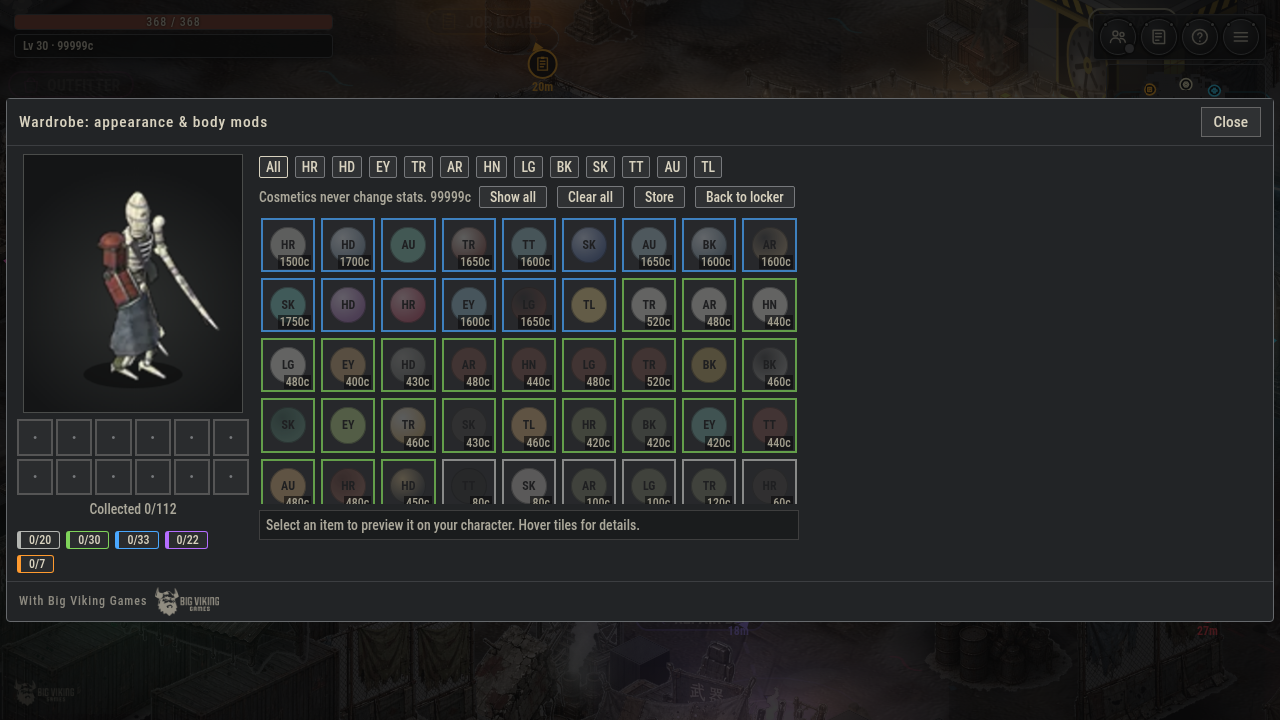
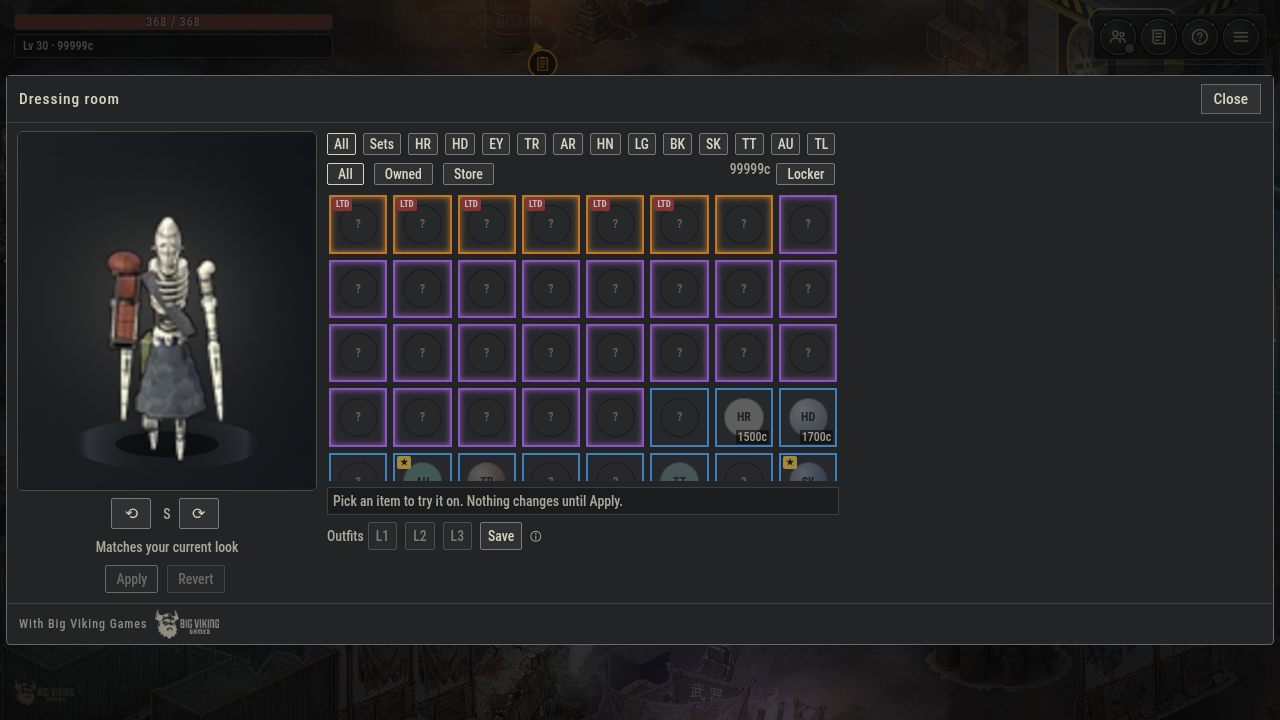
Dressing room: preview-only try-on (Apply/Revert/diff), rotatable 8-direction model with smooth snap + lighting, owned/store filters, badges, sets with combined price, in-place sim-store Buy, saved outfits, dr_* analytics; tests/dressing_room.mjs (+shots); appearance/store tests updated

diff --git a/src/wardrobeui.ts b/src/wardrobeui.ts
@@ -1,49 +1,119 @@
-// Wardrobe modal (opened from the locker): icon grid, slot tabs, hover details, live preview on the character. Cosmetic only; no stats.
+// Dressing room (the Wardrobe modal, opened from the locker / Store). Selecting an item only PREVIEWS it on a large rotatable model;
+// nothing changes on your character until Apply. Store skins can be tried on and bought in place through the simulated store
+// (src/store.ts startPurchase -> confirmPurchase). Saved outfits, sets with a combined price, analytics hooks. See docs/DRESSING_ROOM.md.
 import { RARITIES, RARITY_COLOR, Rarity } from './config';
-import { COSMETICS, COS_BY_ID, COS_SLOTS, COS_SLOT_ICON, COS_SLOT_LABEL, COS_THEME_LABEL, CosDef, CosSlot, buyCos, checkAchievements, cosOf, equipCos, equippedCos, ownsCos, ACHIEVEMENTS } from './content/appearance';
+import { COSMETICS, COS_BY_ID, COS_SLOTS, COS_SLOT_ICON, COS_SLOT_LABEL, COS_THEME_LABEL, CosDef, CosSlot, buyCos, checkAchievements, cosOf, equipCos, ownsCos, ACHIEVEMENTS } from './content/appearance';
 import { applyCosmeticVariants, bodyOf } from './bodyvariants';
 import { drawCosmetics, drawTrail } from './cosmetics';
+import { PlayerAnimator, Dir8, DIR_ORDER, dirFromWorld } from './sprites';
 import { persist } from './state';
-import { track } from './analytics';
+import { track, fmtUsd } from './analytics';
+import { CATALOG, SKU_BY_ID, Sku, activeOrder, cancelOrder, confirmPurchase, skuAvail, startPurchase } from './store';
 type UIx = any;
+type Look = Partial<Record<CosSlot, string>>;
 const esc = (s: string) => String(s).replace(/[&<>"]/g, c => ({ '&': '&amp;', '<': '&lt;', '>': '&gt;', '"': '&quot;' }[c]!));
-export const WD = { tab: 'all' as 'all' | CosSlot, sel: '', show: 'owned' as 'owned' | 'all', msg: '' };
 const rc = (r: Rarity) => RARITY_COLOR[r];
+
+/** Dressing-room state. `staged` holds preview overrides per slot (id = try on, null = take off); empty = preview equals what you wear. */
+export const WD = {
+  tab: 'all' as 'all' | 'sets' | CosSlot, show: 'all' as 'owned' | 'all' | 'store', sel: '', msg: '',
+  staged: {} as Partial<Record<CosSlot, string | null>>, set: '' as string,
+  dir: 0 as Dir8, dirF: 0, phase: 'idle' as 'idle' | 'confirm' | 'processing', orderId: '', buySku: '',
+};
+export const OUTFIT_SLOTS = 3;
+export const NEW_DAYS = 7;
+/** Store spotlight: featured premium pieces (bundle contents) get a star badge. */
+const FEATURED = new Set(CATALOG.filter(k => k.kind === 'bundle').flatMap(k => k.items || []));
+
 const SRC_HINT = (d: CosDef): string => { const s = d.src; switch (s.k) {
-  case 'vendor': return 'Sold at the wardrobe counter for ' + s.price + 'c';
+  case 'vendor': return 'Sold here for ' + s.price + 'c';
   case 'drop': return 'Drops from kills (rare from mobs, better from elites and bosses)';
   case 'elite': return 'Drops from elites and bosses';
   case 'boss': return 'Drops from any boss';
   case 'bossId': return 'Drops from one specific boss';
   case 'ach': return 'Achievement: ' + (ACHIEVEMENTS.find(a => a.key === s.key)?.label || s.key);
-  case 'premium': return 'Outfitter skin: preview it here, buy in the Store (simulated, $' + (s.cents / 100).toFixed(2) + ')';
-  case 'event': return 'Extremely rare: a tiny chance on any boss kill'; } };
-/** Discovery: owned, sold by the vendor, or equipped is "known"; everything else shows only slot/rarity/source until found. */
+  case 'premium': return 'Store skin: try it on, then Buy ' + fmtUsd(s.cents) + ' (SIMULATED)';
+  case 'event': return 'Limited: a tiny chance on any boss kill'; } };
+/** Discovery: owned, sold by the vendor, or a store skin is "known"; everything else shows only slot/rarity/source until found. */
 export const isKnown = (s: any, d: CosDef) => ownsCos(s, d.id) || d.src.k === 'vendor' || d.src.k === 'premium';
-const tipOf = (s: any, d: CosDef) => { const known = isKnown(s, d); return `<b style="color:${rc(d.rarity)}">${known ? esc(d.name) : '???'}</b><br>${esc(COS_SLOT_LABEL[d.slot])} · ${d.rarity}${known ? ' · ' + esc(COS_THEME_LABEL[d.theme]) : ''}<br>` + (known ? `${esc(d.desc)}<br><span class="mut">${esc(d.lore)}</span><br>` : '') + `<span class="mut">${ownsCos(s, d.id) ? 'Owned' : esc(SRC_HINT(d))}</span>`; };
+const isStore = (d: CosDef) => d.src.k === 'premium' || d.src.k === 'vendor';
+const isNew = (s: any, d: CosDef) => { const c = cosOf(s), t = c.owned[d.id]; return !!t && t > 1 && Date.now() - t < NEW_DAYS * 864e5 && !(c.seen![d.id] >= t); };
+const badgeOf = (s: any, d: CosDef): [string, string, string] | null => !ownsCos(s, d.id) && d.src.k === 'event' ? ['ltd', 'LTD', 'Limited'] : isNew(s, d) ? ['new', 'NEW', 'New: not previewed yet'] : !ownsCos(s, d.id) && FEATURED.has(d.id) ? ['feat', '★', 'Featured in a set'] : null;
+const priceOf = (d: CosDef) => d.src.k === 'premium' ? fmtUsd(d.src.cents) : d.src.k === 'vendor' ? d.src.price + 'c' : '';
+const tipOf = (s: any, d: CosDef) => { const known = isKnown(s, d), own = ownsCos(s, d.id); return `<b style="color:${rc(d.rarity)}">${known ? esc(d.name) : '???'}</b><br>${esc(COS_SLOT_LABEL[d.slot])} · ${d.rarity}${known ? ' · ' + esc(COS_THEME_LABEL[d.theme]) : ''}<br>` + (known ? `${esc(d.desc)}<br><span class="mut">${esc(d.lore)}</span><br>` : '') + `<span class="mut">${own ? 'Owned' : esc(SRC_HINT(d))}</span><br><i>Click: try on (preview only)</i>`; };
 const swatch = (d: CosDef, known: boolean) => known ? `<span class="cosw" style="--c:${d.c};--c2:${d.c2 || d.c}">${COS_SLOT_ICON[d.slot]}</span>` : `<span class="cosw unk">?</span>`;
 
+/** What you currently wear (owned + equipped only). */
+export function wornLook(s: any): Look { const c = cosOf(s), o: Look = {}; for (const sl of COS_SLOTS) { const id = c.equipped[sl]; if (id && c.owned[id] && COS_BY_ID[id]?.slot === sl) o[sl] = id; } return o; }
+/** The previewed look: worn + staged overrides. */
+export function previewLook(s: any): Look { const o = wornLook(s); for (const [sl, id] of Object.entries(WD.staged) as [CosSlot, string | null][]) { if (id) o[sl] = id; else delete o[sl]; } return o; }
+/** Slots where the preview differs from what you wear. */
+export function lookDiff(s: any): { slot: CosSlot; from?: string; to?: string }[] { const a = wornLook(s), b = previewLook(s); return COS_SLOTS.filter(sl => a[sl] !== b[sl]).map(sl => ({ slot: sl, from: a[sl], to: b[sl] })); }
+const unownedInPreview = (s: any) => Object.values(previewLook(s)).filter(id => id && !ownsCos(s, id)) as string[];
+
+/** Stage one item (try on). Re-staging what you already wear clears the override. */
+export function stageItem(s: any, id: string) { const d = COS_BY_ID[id]; if (!d) return; WD.sel = id; WD.set = ''; if (wornLook(s)[d.slot] === id) delete WD.staged[d.slot]; else WD.staged[d.slot] = id;
+  const c = cosOf(s); if (c.owned[id]) c.seen![id] = Date.now(); track('dr_preview', isStore(d) && !ownsCos(s, id) ? (d.src.k === 'premium' ? 'skin_' + id : undefined) : undefined, { id, slot: d.slot, owned: ownsCos(s, id), rarity: d.rarity, src: d.src.k });
+  if (!ownsCos(s, id)) track('wardrobe_locked_item_click', id, { src: d.src.k, rarity: d.rarity }); }
+/** Stage a store set (bundle) for preview. */
+export function stageSet(s: any, skuId: string) { const k = SKU_BY_ID[skuId]; if (!k?.items) return; for (const id of k.items) { const d = COS_BY_ID[id]; WD.staged[d.slot] = id; } WD.set = skuId; WD.sel = k.items[0]; track('dr_preview', skuId, { set: true, n: k.items.length }); }
+/** Revert: drop every preview override. Nothing on the character changed, so nothing else to undo. */
+export function revert(s: any) { const n = lookDiff(s).length; WD.staged = {}; WD.set = ''; WD.msg = n ? 'Reverted to your current look.' : ''; if (n) track('dr_revert', undefined, { n }); }
+/** Apply: commit owned staged pieces to the character. Unowned pieces stay staged as previews. */
+export function applyLook(s: any): { applied: number; needBuy: number } { let applied = 0, needBuy = 0;
+  for (const [sl, id] of Object.entries(WD.staged) as [CosSlot, string | null][]) { if (id === null) { equipCos(s, null, sl); delete WD.staged[sl]; applied++; } else if (ownsCos(s, id)) { equipCos(s, id); delete WD.staged[sl]; applied++; } else needBuy++; }
+  if (applied) { persist(s); track('dr_apply', undefined, { applied, needBuy }); } if (!needBuy) WD.set = ''; return { applied, needBuy }; }
+/** Rotate the model by `step` notches (45 degrees each). */
+export function rotate(step: number, via = 'button') { WD.dir = (((WD.dir + step) % 8) + 8) % 8 as Dir8; track('dr_rotate', undefined, { dir: DIR_ORDER[WD.dir], via }); }
+/** What the Buy button buys: the staged set if one is staged, else the selected unowned store piece. */
+export function buyTarget(s: any): { kind: 'sku'; sku: Sku } | { kind: 'credits'; d: CosDef } | null {
+  if (WD.set && skuAvail(s, WD.set).ok) return { kind: 'sku', sku: SKU_BY_ID[WD.set] };
+  const d = WD.sel ? COS_BY_ID[WD.sel] : null; if (!d || ownsCos(s, d.id)) return null;
+  if (d.src.k === 'premium') { const k = SKU_BY_ID['skin_' + d.id]; return k && skuAvail(s, k.id).ok ? { kind: 'sku', sku: k } : null; }
+  if (d.src.k === 'vendor') return { kind: 'credits', d }; return null; }
+export function saveOutfit(s: any, i: number): boolean { const c = cosOf(s); const look = previewLook(s); if (Object.values(look).some(id => id && !ownsCos(s, id))) return false; c.outfits = c.outfits || []; while (c.outfits.length < OUTFIT_SLOTS) c.outfits.push(null); c.outfits[i] = { n: 'Look ' + (i + 1), eq: look }; persist(s); track('dr_outfit_save', undefined, { slot: i, n: Object.keys(look).length }); return true; }
+export function loadOutfit(s: any, i: number): boolean { const o = cosOf(s).outfits?.[i]; if (!o) return false; const worn = wornLook(s); WD.staged = {}; WD.set = ''; for (const sl of COS_SLOTS) { const want = o.eq[sl] && ownsCos(s, o.eq[sl]!) ? o.eq[sl]! : undefined; if (want !== worn[sl]) WD.staged[sl] = want ?? null; } track('dr_outfit_load', undefined, { slot: i }); return true; }
+
+// ------------------------------------------------------------------------------------------------ render
 export function wardrobeHtml(ui: UIx): string {
-  const s = ui.g.save, c = cosOf(s); const eq = c.equipped;
+  const s = ui.g.save, c = cosOf(s); const look = previewLook(s), worn = wornLook(s), diff = lookDiff(s);
   const tabBtn = (id: string, label: string, title: string) => `<button class="btn tabb ${WD.tab === id ? 'primary' : ''}" data-act="wd-tab" data-tab="${id}" data-tip="${esc(title)}" aria-label="${esc(title)}">${label}</button>`;
-  const tabs = tabBtn('all', 'All', 'All slots') + COS_SLOTS.map(sl => tabBtn(sl, COS_SLOT_ICON[sl], COS_SLOT_LABEL[sl])).join('');
-  const inTab = (d: CosDef) => WD.tab === 'all' || d.slot === WD.tab;
-  const list = COSMETICS.filter(d => inTab(d) && (WD.show === 'all' || ownsCos(s, d.id) || d.src.k === 'vendor' || d.src.k === 'premium')).sort((a, b) => RARITIES.indexOf(b.rarity) - RARITIES.indexOf(a.rarity) || a.name.localeCompare(b.name));
-  const tiles = list.map(d => { const own = ownsCos(s, d.id), on = eq[d.slot] === d.id, known = isKnown(s, d);
-    return `<button class="slot tile st cos ${WD.sel === d.id ? 'sel' : ''} ${own ? '' : 'off'} ${on ? 'worn' : ''}" data-act="wd-sel" data-id="${d.id}" data-tip="${esc(tipOf(s, d))}" aria-label="${esc((known ? d.name : 'Undiscovered ' + COS_SLOT_LABEL[d.slot]) + ', ' + d.rarity + (own ? (on ? ', equipped' : ', owned') : ', not owned'))}" style="border-color:${rc(d.rarity)}"><span class="ticon">${swatch(d, known)}</span>${on ? '<i class="wornb" title="Equipped">●</i>' : ''}${own ? '' : d.src.k === 'vendor' ? `<i class="pricb">${d.src.price}c</i>` : ''}</button>`; }).join('') || '<div class="mut">Nothing here yet. Cosmetics drop from elites and bosses, or can be bought at the counter. Use "Show all" to see what is out there.</div>';
+  const tabs = tabBtn('all', 'All', 'All slots') + tabBtn('sets', 'Sets', 'Outfit sets: several store skins at one combined price') + COS_SLOTS.map(sl => tabBtn(sl, COS_SLOT_ICON[sl], COS_SLOT_LABEL[sl])).join('');
+  const showBtn = (id: string, label: string, tip: string) => `<button class="btn ${WD.show === id ? 'primary' : ''}" data-act="wd-show" data-show="${id}" aria-pressed="${WD.show === id}" data-tip="${esc(tip)}">${label}</button>`;
+  let grid: string;
+  if (WD.tab === 'sets') {
+    grid = CATALOG.filter(k => k.kind === 'bundle').map(k => { const parts = k.items!.map(i => COS_BY_ID[i]); const sum = parts.reduce((a, d) => a + ((d.src as any).cents || 0), 0); const a = skuAvail(s, k.id); const top = parts.reduce((m, d) => RARITIES.indexOf(d.rarity) > RARITIES.indexOf(m) ? d.rarity : m, 'grey' as Rarity);
+      const tip = `<b>${esc(k.name)}</b><br>${parts.map(d => esc(d.name) + (ownsCos(s, d.id) ? ' (owned)' : '')).join('<br>')}<br>${fmtUsd(k.cents)} <s>${fmtUsd(sum)}</s> SIMULATED<br><i>Click: try the whole set on</i>`;
+      return `<button class="slot tile st cos set ${WD.set === k.id ? 'sel' : ''}" data-act="wd-set" data-id="${k.id}" data-tip="${esc(tip)}" aria-label="${esc(k.name + ', set, ' + fmtUsd(k.cents) + (a.ok ? '' : ', owned'))}" style="border-color:${rc(top)}"><span class="ticon setic">${parts.map(d => `<span class="cosw" style="--c:${d.c};--c2:${d.c2 || d.c}"></span>`).join('')}</span>${a.ok ? `<i class="pricb">${fmtUsd(k.cents)}</i><i class="drb feat">SET</i>` : '<i class="drb own">✓</i>'}</button>`; }).join('');
+  } else {
+    const inTab = (d: CosDef) => WD.tab === 'all' || d.slot === WD.tab;
+    const vis = (d: CosDef) => WD.show === 'owned' ? ownsCos(s, d.id) : WD.show === 'store' ? isStore(d) && !ownsCos(s, d.id) : true;
+    const list = COSMETICS.filter(d => inTab(d) && vis(d)).sort((a, b) => +ownsCos(s, b.id) - +ownsCos(s, a.id) || RARITIES.indexOf(b.rarity) - RARITIES.indexOf(a.rarity) || a.name.localeCompare(b.name));
+    grid = list.map(d => { const own = ownsCos(s, d.id), on = worn[d.slot] === d.id, tried = look[d.slot] === d.id && !on, known = isKnown(s, d), b = badgeOf(s, d);
+      return `<button class="slot tile st cos r-${d.rarity} ${WD.sel === d.id ? 'sel' : ''} ${own ? 'own' : 'off'} ${on ? 'worn' : ''} ${tried ? 'tried' : ''}" data-act="wd-sel" data-id="${d.id}" data-tip="${esc(tipOf(s, d))}" aria-label="${esc((known ? d.name : 'Undiscovered ' + COS_SLOT_LABEL[d.slot]) + ', ' + d.rarity + (own ? (on ? ', equipped' : ', owned') : ', not owned') + (tried ? ', previewing' : ''))}" style="border-color:${rc(d.rarity)};--rc:${rc(d.rarity)}"><span class="ticon">${swatch(d, known)}</span>${on ? '<i class="wornb" title="Wearing">●</i>' : ''}${own ? '<i class="drb own" title="Owned">✓</i>' : b ? `<i class="drb ${b[0]}" title="${b[2]}">${b[1]}</i>` : ''}${!own && priceOf(d) ? `<i class="pricb">${priceOf(d)}</i>` : ''}</button>`; }).join('') || '<div class="mut">Nothing here. Try "All".</div>';
+  }
+  // detail of the selected piece (short; the rest is in tooltips)
   const d = WD.sel ? COS_BY_ID[WD.sel] : null;
-  const detail = d ? (() => { const own = ownsCos(s, d.id), on = eq[d.slot] === d.id, known = isKnown(s, d);
-    const act = own ? `<button class="btn primary" data-act="wd-equip" data-id="${d.id}">${on ? 'Unequip' : 'Equip'}</button>` : d.src.k === 'vendor' ? `<button class="btn primary" data-act="wd-buy" data-id="${d.id}" ${s.credits >= d.src.price ? '' : 'disabled'}>Buy ${d.src.price}c</button>` : d.src.k === 'premium' ? `<span class="mut">Previewing on your character.</span> <button class="btn primary" data-act="st-open" data-sku="skin_${d.id}">Buy $${(d.src.cents / 100).toFixed(2)} <small>SIMULATED</small></button>` : `<span class="mut">${esc(SRC_HINT(d))}</span>`;
-    return `<div class="wdsel"><b style="color:${rc(d.rarity)}">${known ? esc(d.name) : '???'}</b> <span class="tag" style="border-color:${rc(d.rarity)}">${d.rarity}</span> <span class="mut">${esc(COS_SLOT_LABEL[d.slot])}${known ? ' · ' + esc(COS_THEME_LABEL[d.theme]) : ''}</span><div>${known ? esc(d.desc) : 'Not discovered yet.'}</div>${known ? `<div class="mut">${esc(d.lore)}</div>` : ''}<div class="wdact">${act}${d.variant ? '<span class="mut"> uses real body-part art</span>' : known ? '<span class="mut"> procedural look</span>' : ''}</div></div>`; })()
-    : '<div class="mut wdsel">Select an item to preview it on your character. Hover tiles for details.</div>';
-  const have = COSMETICS.filter(x => c.owned[x.id]).length;
-  const per = RARITIES.map(r => { const t = COSMETICS.filter(x => x.rarity === r), h = t.filter(x => c.owned[x.id]).length; return `<span class="repb" style="--ac:${rc(r)}" data-tip="${esc(r + ': ' + h + ' of ' + t.length + ' collected')}">${h}/${t.length}</span>`; }).join('');
-  return `<div class="wdwrap"><div class="wdleft"><canvas id="wdprev" width="220" height="260" aria-label="Character preview"></canvas>
-      <div class="wdworn">${COS_SLOTS.map(sl => { const id = eq[sl], w = id && c.owned[id] ? COS_BY_ID[id] : null; return `<button class="slot tile mini wslot ${WD.tab === sl ? 'sel' : ''}" data-act="${w ? 'wd-unslot' : 'wd-tab'}" data-tab="${sl}" data-slot="${sl}" data-tip="${esc(w ? '<b style="color:' + rc(w.rarity) + '">' + esc(w.name) + '</b><br>' + COS_SLOT_LABEL[sl] + '<br><i>Click: unequip</i>' : '<b>' + COS_SLOT_LABEL[sl] + '</b><br>Nothing equipped. Click to browse.')}" style="border-color:${w ? rc(w.rarity) : '#555'}" aria-label="${esc(COS_SLOT_LABEL[sl] + ': ' + (w ? w.name : 'empty'))}"><span class="ticon">${w ? swatch(w, true) : '<span class="tempty">·</span>'}</span></button>`; }).join('')}</div>
-      <div class="wdcount mut">Collected ${have}/${COSMETICS.length}</div><div class="repbar">${per}</div></div>
-    <div class="wdright"><div class="wdtabs">${tabs}</div>
-      <div class="trayhead"><span class="mut">Cosmetics never change stats. ${ui.g.save.credits}c</span><span class="trayctl"><button class="btn ${WD.show === 'all' ? 'primary' : ''}" data-act="wd-show" aria-pressed="${WD.show === 'all'}">Show all</button><button class="btn" data-act="wd-clear">Clear all</button><button class="btn" data-act="st-open" data-tip="Outfitter: simulated purchases">Store</button><button class="btn" data-act="wd-back">Back to locker</button></span></div>
-      <div class="stgrid wdgrid">${tiles}</div>${detail}${WD.msg ? `<div class="bkmsg" role="status">${esc(WD.msg)}</div>` : ''}</div></div>`;
+  const det = d ? `<div class="drdet"><b style="color:${rc(d.rarity)}" class="cap" data-tip="${esc(tipOf(s, d))}">${isKnown(s, d) ? esc(d.name) : '???'}</b> <span class="tag" style="border-color:${rc(d.rarity)}">${d.rarity}</span> <span class="mut">${ownsCos(s, d.id) ? 'Owned' : d.src.k === 'premium' ? 'Previewing · store skin' : d.src.k === 'vendor' ? 'Previewing · sold here' : esc(SRC_HINT(d))}</span>${look[d.slot] === d.id ? ` <button class="btn" data-act="wd-off" data-slot="${d.slot}" data-tip="Preview without this slot">Take off</button>` : ''}${d.src.k === 'premium' && !ownsCos(s, d.id) ? ` <button class="btn" data-act="st-open" data-sku="skin_${d.id}" data-tip="Open this skin in the Outfitter">Store</button>` : ''}</div>` : '<div class="drdet mut">Pick an item to try it on. Nothing changes until Apply.</div>';
+  // diff vs current look
+  const nm = (id?: string) => id ? esc(COS_BY_ID[id].name) : 'none';
+  const diffHtml = diff.length ? diff.map(x => `<span class="drdiff ${x.to && !ownsCos(s, x.to) ? 'buy' : ''}" data-tip="${esc('<b>' + COS_SLOT_LABEL[x.slot] + '</b><br>' + nm(x.from) + ' → ' + nm(x.to))}">${COS_SLOT_ICON[x.slot]} ${x.to ? (ownsCos(s, x.to) ? '+' : '$') : '−'}</span>`).join('') : '<span class="mut">Matches your current look</span>';
+  // action bar
+  const need = unownedInPreview(s), applyN = diff.filter(x => !x.to || ownsCos(s, x.to)).length, bt = buyTarget(s);
+  let buy = '';
+  if (WD.phase === 'confirm') buy = `<span class="drconf">Buy <b>${esc(SKU_BY_ID[WD.buySku]?.name || '')}</b> ${fmtUsd(SKU_BY_ID[WD.buySku]?.cents || 0)}? <span class="tag">SIMULATED</span></span><button class="btn primary" data-act="wd-confirm">Confirm</button><button class="btn" data-act="wd-cancel">Cancel</button>`;
+  else if (WD.phase === 'processing') buy = `<span class="mut" role="status">Processing (simulated)…</span><button class="btn" data-act="wd-cancel">Cancel</button>`;
+  else if (bt) buy = bt.kind === 'sku' ? `<button class="btn buy" data-act="wd-buy" data-sku="${bt.sku.id}" data-tip="${esc(bt.sku.name + ': ' + fmtUsd(bt.sku.cents) + ' SIMULATED, no real charge. Stays a preview until you Apply.')}">Buy ${fmtUsd(bt.sku.cents)}</button>` : `<button class="btn buy" data-act="wd-buy" data-id="${bt.d.id}" ${s.credits >= (bt.d.src as any).price ? '' : 'disabled'} data-tip="${esc(bt.d.name + ' for ' + (bt.d.src as any).price + 'c (you have ' + s.credits + 'c)')}">Buy ${(bt.d.src as any).price}c</button>`;
+  const outfits = Array.from({ length: OUTFIT_SLOTS }, (_, i) => { const o = c.outfits?.[i]; return `<button class="btn mini ${o ? '' : 'empty'}" data-act="wd-load" data-i="${i}" ${o ? '' : 'disabled'} data-tip="${esc(o ? '<b>' + o.n + '</b><br>' + (Object.values(o.eq).map(id => esc(COS_BY_ID[id!]?.name || '')).join('<br>') || 'Bare') + '<br><i>Click: preview it</i>' : 'Empty outfit slot')}">L${i + 1}</button>`; }).join('') + `<button class="btn mini" data-act="wd-save" ${need.length ? 'disabled' : ''} data-tip="${esc(need.length ? 'Buy the previewed store pieces first' : 'Save this preview as an outfit (fills the first empty slot, else L1)')}">Save</button>`;
+  return `<div class="drwrap" data-dressing><div class="drstage">
+      <canvas id="wdprev" width="300" height="360" aria-label="Character preview, facing ${DIR_ORDER[WD.dir]}. Drag to rotate." tabindex="0"></canvas>
+      <div class="drrot"><button class="btn" data-act="wd-rot" data-d="-1" aria-label="Rotate left" data-tip="Rotate left (or drag the model)">⟲</button><span class="mut drdir">${DIR_ORDER[WD.dir]}</span><button class="btn" data-act="wd-rot" data-d="1" aria-label="Rotate right" data-tip="Rotate right (or drag the model)">⟳</button></div>
+      <div class="drdiffs" aria-label="Changes vs your current look">${diffHtml}</div>
+      <div class="drbar"><button class="btn primary" data-act="wd-apply" ${applyN ? '' : 'disabled'} data-tip="${esc(applyN ? 'Wear the previewed owned pieces' + (need.length ? ' (store pieces stay previews until bought)' : '') : 'Nothing owned to apply')}">Apply${applyN ? ' ' + applyN : ''}</button><button class="btn" data-act="wd-revert" ${diff.length ? '' : 'disabled'} data-tip="Back to your current look">Revert</button>${buy}</div></div>
+    <div class="drright"><div class="wdtabs">${tabs}</div>
+      <div class="trayhead"><span class="trayctl">${showBtn('all', 'All', 'Everything, including undiscovered drops')}${showBtn('owned', 'Owned', 'Only what you own')}${showBtn('store', 'Store', 'Only what you can buy')}</span><span class="trayctl"><span class="mut" data-tip="Credits">${s.credits}c</span><button class="btn" data-act="wd-back" data-tip="Back to the locker">Locker</button></span></div>
+      <div class="stgrid wdgrid">${grid}</div>${det}
+      <div class="drout"><span class="mut">Outfits</span>${outfits}<span class="mut drnote" data-tip="Cosmetics never change stats. Store prices are SIMULATED.">ⓘ</span></div>${WD.msg ? `<div class="bkmsg" role="status">${esc(WD.msg)}</div>` : ''}</div></div>`;
 }
 
 export function wardrobeClick(ui: UIx, el: HTMLElement, a: string): boolean {
@@ -51,33 +121,73 @@ export function wardrobeClick(ui: UIx, el: HTMLElement, a: string): boolean {
   switch (a) {
     case 'wd-open': for (const d of checkAchievements(s)) g.toast('Wardrobe unlocked: ' + d.name); ui.open('wardrobe'); return true;
     case 'wd-tab': WD.tab = (el.dataset.tab as any) || 'all'; break;
-    case 'wd-show': WD.show = WD.show === 'all' ? 'owned' : 'all'; break;
-    case 'wd-sel': WD.sel = el.dataset.id!; WD.msg = ''; { const d = COS_BY_ID[WD.sel]; if (d && !ownsCos(s, d.id)) track('wardrobe_locked_item_click', d.id, { src: d.src.k, rarity: d.rarity }); } break;
-    case 'wd-equip': { const id = el.dataset.id!, d = COS_BY_ID[id]; if (d && cosOf(s).equipped[d.slot] === id) equipCos(s, null, d.slot); else equipCos(s, id); persist(s); WD.msg = ''; break; }
-    case 'wd-unslot': equipCos(s, null, el.dataset.slot as CosSlot); persist(s); break;
-    case 'wd-clear': cosOf(s).equipped = {}; persist(s); break;
-    case 'wd-buy': { const r = buyCos(s, el.dataset.id!); WD.msg = r.why; if (r.ok) { persist(s); g.toast(r.why); } break; }
+    case 'wd-show': WD.show = (el.dataset.show as any) || (WD.show === 'all' ? 'owned' : 'all'); break;
+    case 'wd-sel': if (WD.phase !== 'idle') return true; stageItem(s, el.dataset.id!); WD.msg = ''; break;
+    case 'wd-set': if (WD.phase !== 'idle') return true; stageSet(s, el.dataset.id!); WD.msg = ''; break;
+    case 'wd-off': WD.staged[el.dataset.slot as CosSlot] = wornLook(s)[el.dataset.slot as CosSlot] ? null : undefined as any; if (WD.staged[el.dataset.slot as CosSlot] === undefined) delete WD.staged[el.dataset.slot as CosSlot]; break;
+    case 'wd-unslot': WD.staged[el.dataset.slot as CosSlot] = null; break;
+    case 'wd-apply': case 'wd-equip': { const r = applyLook(s); WD.msg = r.applied ? 'Applied.' + (r.needBuy ? ' ' + r.needBuy + ' store piece(s) still preview only.' : '') : r.needBuy ? 'Buy the previewed store pieces first.' : ''; if (r.applied) g.toast?.('Look applied'); break; }
+    case 'wd-revert': revert(s); break;
+    case 'wd-rot': rotate(+el.dataset.d! || 1); break;
+    case 'wd-save': { const c = cosOf(s); let i = (c.outfits || []).findIndex(o => !o); if (i < 0) i = (c.outfits || []).length < OUTFIT_SLOTS ? (c.outfits || []).length : 0; WD.msg = saveOutfit(s, i) ? 'Saved as L' + (i + 1) + '.' : 'Buy the previewed store pieces first.'; break; }
+    case 'wd-load': loadOutfit(s, +el.dataset.i!); WD.msg = 'Previewing L' + (+el.dataset.i! + 1) + '. Apply to wear it.'; break;
+    case 'wd-buy': {
+      if (el.dataset.id) { const r = buyCos(s, el.dataset.id); WD.msg = r.why; track('dr_buy_intent', undefined, { id: el.dataset.id, credits: true }); if (r.ok) { persist(s); g.toast?.(r.why); } break; }
+      const sku = el.dataset.sku!; track('dr_buy_intent', sku, { set: !!WD.set }); const r = startPurchase(s, sku); if (r.ok) { WD.phase = 'confirm'; WD.orderId = r.order.orderId; WD.buySku = sku; WD.msg = ''; } else WD.msg = r.why; break; }
+    case 'wd-confirm': {
+      if (WD.phase !== 'confirm') return true; const oid = WD.orderId; WD.phase = 'processing';
+      confirmPurchase(s, oid).then(r => { if (WD.orderId !== oid) return; WD.phase = 'idle'; WD.orderId = ''; WD.msg = r.status === 'success' ? 'Bought (simulated). Press Apply to wear it.' : r.why; if (r.status === 'success') g.toast?.('Purchase complete (simulated)'); if (ui.modal === 'wardrobe') ui.render(); });
+      break; }
+    case 'wd-cancel': if (WD.orderId) cancelOrder(WD.orderId); WD.phase = 'idle'; WD.orderId = ''; WD.msg = 'Purchase cancelled. You were not charged.'; break;
+    case 'wd-clear': for (const sl of COS_SLOTS) WD.staged[sl] = null; break;
     case 'wd-back': ui.open('locker'); return true;
     default: return false;
   }
   ui.render(); return true;
 }
+/** Store "Preview" entry point: try one piece on in the dressing room. */
+export function previewFromStore(ui: UIx, id: string) { WD.tab = 'all'; WD.show = 'all'; stageItem(ui.g.save, id); WD.msg = ''; ui.open('wardrobe'); }
 
-/** Called after each render: start the live preview loop (re-uses the real animated sprite when available). */
-let raf = 0;
+// ------------------------------------------------------------------------------------------------ stage (canvas)
+let raf = 0, anim: PlayerAnimator | null = null, animSrc: any = null;
+/** world facing angle whose screen direction is `d` (for the procedural cosmetics) */
+const FACE: number[] = (() => { const o: number[] = []; for (let i = 0; i < 64; i++) { const a = i / 64 * Math.PI * 2, dd = dirFromWorld(Math.cos(a), Math.sin(a)); if (o[dd] === undefined) o[dd] = a; } return o; })();
 export function wardrobeAfter(ui: UIx) {
   const cv = document.getElementById('wdprev') as HTMLCanvasElement | null; cancelAnimationFrame(raf); if (!cv) return;
-  const g = ui.g, s = g.save, ctx = cv.getContext('2d')!; const rend = (window as any).__rend; const t0 = performance.now();
-  const frame = () => { if (!document.getElementById('wdprev')) return; const t = (performance.now() - t0) / 1000;
-    const eq = equippedCos(s).filter(x => !(WD.sel && COS_BY_ID[WD.sel] && COS_BY_ID[WD.sel].slot === x.slot)); const sel = WD.sel ? COS_BY_ID[WD.sel] : null; const list = sel ? [...eq, sel] : eq;
-    ctx.clearRect(0, 0, cv.width, cv.height); const gr = ctx.createRadialGradient(110, 150, 10, 110, 150, 140); gr.addColorStop(0, '#2b2d2c'); gr.addColorStop(1, '#141516'); ctx.fillStyle = gr; ctx.fillRect(0, 0, cv.width, cv.height);
-    ctx.fillStyle = 'rgba(0,0,0,.4)'; ctx.beginPath(); ctx.ellipse(110, 222, 50, 14, 0, 0, 7); ctx.fill();
-    const u = 3.7, k = { c: ctx, x: 110, y: 222, u, t, moving: false, face: 0 };
-    const tr = list.find(x => x.slot === 'trail'); if (tr) drawTrail(ctx, Array.from({ length: 14 }, (_, i) => ({ x: 110 - 8 - i * 7, y: 222 + (i % 2) * 2, t: t - i * .06 })), t, u, tr);
+  const g = ui.g, s = g.save, ctx = cv.getContext('2d')!; const rend = (window as any).__rend; let last = performance.now(), t = 0;
+  if (rend?.anim && animSrc !== rend.anim.loaded) { anim = new PlayerAnimator(rend.anim.loaded); animSrc = rend.anim.loaded; }
+  // drag / swipe to rotate (one 45 degree notch per 40px), arrow keys too
+  let dragX: number | null = null, acc = 0, turned = false;
+  cv.style.touchAction = 'none';
+  cv.onpointerdown = e => { dragX = e.clientX; acc = 0; turned = false; cv.setPointerCapture?.(e.pointerId); };
+  cv.onpointermove = e => { if (dragX === null) return; acc += e.clientX - dragX; dragX = e.clientX; while (Math.abs(acc) >= 40) { const st = acc > 0 ? 1 : -1; WD.dir = (((WD.dir + st) % 8) + 8) % 8 as Dir8; acc -= st * 40; turned = true; } };
+  cv.onpointerup = cv.onpointercancel = () => { if (turned) { track('dr_rotate', undefined, { dir: DIR_ORDER[WD.dir], via: 'drag' }); const l = document.querySelector('.drdir'); if (l) l.textContent = DIR_ORDER[WD.dir]; cv.setAttribute('aria-label', 'Character preview, facing ' + DIR_ORDER[WD.dir] + '. Drag to rotate.'); } dragX = null; };
+  cv.onkeydown = e => { if (e.key === 'ArrowLeft' || e.key === 'ArrowRight') { e.preventDefault(); rotate(e.key === 'ArrowLeft' ? -1 : 1, 'key'); ui.render(); document.getElementById('wdprev')?.focus(); } };
+  const W = cv.width, H = cv.height, fx = W / 2, fy = H - 46;
+  const frame = () => { if (!document.getElementById('wdprev')) return; const now = performance.now(), dt = Math.min(.1, (now - last) / 1000); last = now; t += dt;
+    // smooth snap: dirF eases toward the target notch along the short way round
+    let dd = WD.dir - WD.dirF; dd = ((dd % 8) + 12) % 8 - 4; WD.dirF = Math.abs(dd) < .02 ? WD.dir : WD.dirF + dd * Math.min(1, dt * 14); WD.dirF = ((WD.dirF % 8) + 8) % 8;
+    const look = previewLook(s), list = COS_SLOTS.map(sl => look[sl] ? COS_BY_ID[look[sl]!] : null).filter(Boolean) as CosDef[];
+    const sel = WD.sel ? COS_BY_ID[WD.sel] : null, glow = sel && look[sel.slot] === sel.id ? rc(sel.rarity) : '#6b7a86';
+    // backdrop: dark gradient, spotlight cone, floor disc with rarity rim light
+    const bg = ctx.createLinearGradient(0, 0, 0, H); bg.addColorStop(0, '#101418'); bg.addColorStop(1, '#1d2023'); ctx.fillStyle = bg; ctx.fillRect(0, 0, W, H);
+    ctx.save(); ctx.globalCompositeOperation = 'lighter'; const sp = ctx.createRadialGradient(fx, fy - 150, 10, fx, fy - 120, 190); sp.addColorStop(0, 'rgba(255,240,215,.16)'); sp.addColorStop(1, 'rgba(0,0,0,0)'); ctx.fillStyle = sp; ctx.fillRect(0, 0, W, H);
+    ctx.globalAlpha = .5 + .1 * Math.sin(t * 2); const rim = ctx.createRadialGradient(fx, fy, 20, fx, fy, 95); rim.addColorStop(0, 'rgba(0,0,0,0)'); rim.addColorStop(.8, glow + '55'); rim.addColorStop(1, 'rgba(0,0,0,0)'); ctx.fillStyle = rim; ctx.beginPath(); ctx.ellipse(fx, fy, 95, 26, 0, 0, 7); ctx.fill(); ctx.restore();
+    ctx.fillStyle = 'rgba(0,0,0,.5)'; ctx.beginPath(); ctx.ellipse(fx, fy, 52, 13, 0, 0, 7); ctx.fill();
+    const u = 4.6, dA = Math.floor(WD.dirF) % 8 as Dir8, frac = WD.dirF - Math.floor(WD.dirF), dB = (dA + 1) % 8 as Dir8; const dShow = (frac < .5 ? dA : dB) as Dir8;
+    const k = { c: ctx, x: fx, y: fy, u, t, moving: false, face: FACE[dShow] };
+    const tr = list.find(x => x.slot === 'trail'); if (tr) drawTrail(ctx, Array.from({ length: 14 }, (_, i) => ({ x: fx - 8 - i * 7, y: fy + (i % 2) * 2, t: t - i * .06 })), t, u, tr);
     drawCosmetics(k, list, 'back'); let drew = false;
-    if (rend?.anim) { try { const body = applyCosmeticVariants(bodyOf({ ...s, cosmetics: { owned: {}, equipped: {} } } as any, null), { cosmetics: { owned: Object.fromEntries(list.map(x => [x.id, 1])), equipped: Object.fromEntries(list.map(x => [x.slot, x.id])) } } as any); rend.anim.setBody(body); drew = rend.anim.draw(ctx, 110, 222, u); } catch { drew = false; } }
-    if (!drew) { ctx.fillStyle = '#5c5f5a'; ctx.beginPath(); ctx.ellipse(110, 222 - 28 * u, 8.5 * u, 10 * u, 0, 0, 7); ctx.fill(); ctx.fillStyle = '#b8a48c'; ctx.beginPath(); ctx.ellipse(110, 222 - 41 * u, 5.2 * u, 5.8 * u, 0, 0, 7); ctx.fill(); ctx.fillRect(110 - 8 * u, 222 - 20 * u, 6.5 * u, 20 * u); ctx.fillRect(110 + 1.5 * u, 222 - 20 * u, 6.5 * u, 20 * u); }
-    drawCosmetics(k, list, 'front'); raf = requestAnimationFrame(frame); };
+    if (anim) { try { const body = applyCosmeticVariants(bodyOf({ ...s, cosmetics: { owned: {}, equipped: {} } } as any, null), { cosmetics: { owned: Object.fromEntries(list.map(x => [x.id, 1])), equipped: look } } as any); anim.setBody(body); anim.anim = 'idle'; anim.t = t;
+      // cross-fade the two nearest baked directions while snapping (no ghost at rest)
+      if (frac > .01 && frac < .99) { anim.dir = dA; drew = anim.draw(ctx, fx, fy, u); ctx.save(); ctx.globalAlpha = frac; anim.dir = dB; anim.draw(ctx, fx, fy, u); ctx.restore(); } else { anim.dir = dShow; drew = anim.draw(ctx, fx, fy, u); } } catch { drew = false; } }
+    if (!drew) { const sx = Math.cos(WD.dirF / 8 * Math.PI * 2); ctx.fillStyle = '#5c5f5a'; ctx.beginPath(); ctx.ellipse(fx, fy - 28 * u, 8.5 * u * (.75 + .25 * Math.abs(sx)), 10 * u, 0, 0, 7); ctx.fill(); ctx.fillStyle = '#b8a48c'; ctx.beginPath(); ctx.ellipse(fx, fy - 41 * u, 5.2 * u, 5.8 * u, 0, 0, 7); ctx.fill(); ctx.fillRect(fx - 8 * u, fy - 20 * u, 6.5 * u, 20 * u); ctx.fillRect(fx + 1.5 * u, fy - 20 * u, 6.5 * u, 20 * u); }
+    drawCosmetics(k, list, 'front');
+    // key light from the upper left
+    ctx.save(); ctx.globalCompositeOperation = 'soft-light'; const kl = ctx.createLinearGradient(0, 0, W, H); kl.addColorStop(0, 'rgba(255,230,200,.35)'); kl.addColorStop(1, 'rgba(0,10,30,.35)'); ctx.fillStyle = kl; ctx.fillRect(0, 0, W, H); ctx.restore();
+    raf = requestAnimationFrame(frame); };
   frame();
 }
+/** test / console hook */
+if (typeof window !== 'undefined') (window as any).__dr = { WD, previewLook: () => previewLook((window as any).__game.save), wornLook: () => wornLook((window as any).__game.save), diff: () => lookDiff((window as any).__game.save), activeOrder };
 export { checkAchievements };

diff --git a/src/ui.ts b/src/ui.ts
@@ -251,7 +251,7 @@ export class UI {
   // ================= modals =================
   render(){ const fk=this.modal==='locker'?this.focusKey():''; const m=$('modal'); if(!this.modal){ m.style.display='none'; m.innerHTML=''; return; } m.style.display='flex'; m.classList.toggle('helpmodal',this.modal==='help'); const g=this.g; this.recompute();
     const body=this.modal==='codex'?codexHtml(g.save):this.modal==='travel'?travelHtml(this):this.modal==='guild'?guildHtml(this):this.modal==='bank'?bankHtml(this):this.modal==='wardrobe'?wardrobeHtml(this):this.modal==='locker'?this.locker():this.modal==='vendor'?this.vendor():this.modal==='gate'?this.gate():this.modal==='fixer'?this.fixer():this.modal==='contacts'?this.contacts():this.modal==='store'?this.store():this.modal==='settings'?this.settings():this.modal==='dev'?this.dev():this.modal==='help'?helpHtml():this.modal==='summary'?this.summary():this.modal==='story'?this.storyPanel():'';
-    const titles:Record<string,string>={travel:'Reach Line: travel',guild:'Guild Counter: reclaimed chips',codex:'Abilities codex',bank:'Bank: storage & credits vault',wardrobe:'Wardrobe: appearance & body mods',locker:'Body workspace & locker',vendor:'Vendor & repair',gate:'Dungeon select',contacts:'Contacts & contracts',fixer:'Fixer: Odalys Vane',store:'Outfitter (simulated purchases)',settings:'Settings',help:'Controls',dev:'DEV tools (prototype only)',summary:'Run summary',story:'Story: Odalys Vane'};
+    const titles:Record<string,string>={travel:'Reach Line: travel',guild:'Guild Counter: reclaimed chips',codex:'Abilities codex',bank:'Bank: storage & credits vault',wardrobe:'Dressing room',locker:'Body workspace & locker',vendor:'Vendor & repair',gate:'Dungeon select',contacts:'Contacts & contracts',fixer:'Fixer: Odalys Vane',store:'Outfitter (simulated purchases)',settings:'Settings',help:'Controls',dev:'DEV tools (prototype only)',summary:'Run summary',story:'Story: Odalys Vane'};
     m.innerHTML=`<div class="win${this.modal==='settings'||this.modal==='help'?' settingswin helpwin':''}${this.modal==='locker'?' lockerwin':''}${this.modal==='story'?' storywin':''}" role="dialog" aria-modal="true" aria-label="${titles[this.modal]||''}"><header><span>${titles[this.modal]||''}</span><span><button data-act="close">Close</button></span></header><div class="body">${body}</div><footer class="bvgf">${BVG}</footer></div><button id="modalx" type="button" data-act="close" aria-label="Close window" title="Close (Esc)">✕</button>`; void g; this.fitModal(); if(this.modal==='settings') settingsAfterRender(this); this.decorateTiles(); this.decorateChips(); this.bindTips(); this.bindChipDnD(); this.fitText(); if(this.modal==='wardrobe') wardrobeAfter(this); if(this.modal==='locker'){ this.bindSwapDnD(); this.afterLocker(fk); } if(this.modal==='story') this.storyAfter(); }
   decorateTiles(){ document.querySelectorAll<HTMLElement>('#modal [data-def]').forEach(b=>{ const ic=b.querySelector('.ticon'); if(!ic||!b.dataset.def) return; markRarity(b,ITEM_BY_ID[b.dataset.def]?.rarity); try{ const sp=specOf({id:0,kind:'item',inst:{def:b.dataset.def},amount:1}); const src=iconCanvas(sp); const cv=document.createElement('canvas'); cv.width=src.width; cv.height=src.height; cv.getContext('2d')!.drawImage(src,0,0); ic.appendChild(cv); }catch{} }); }
   decorateChips(){ document.querySelectorAll<HTMLElement>('#modal [data-chip]').forEach(b=>{ const ic=b.querySelector('.ticon'); const id=b.dataset.chip; if(!ic||!id||!(CHIPS as any)[id]) return; markRarity(b,CHIPS[id as ChipId].rarity); try{ const src=iconCanvas(specOf({id:0,kind:'chip',chip:id,amount:1})); const cv=document.createElement('canvas'); cv.width=src.width; cv.height=src.height; cv.getContext('2d')!.drawImage(src,0,0); ic.appendChild(cv); }catch{} }); }

diff --git a/src/style.css b/src/style.css
@@ -605,3 +605,21 @@ body.reducefx .win.storywin{ animation:none; }
 body:not(.intown) #btn-story{ display:none; }
 /* compact tile captions (docs/UI.md): one line, never clipped mid-glyph; the full name is in the tooltip */
 .stparts .tile.stp>b.cap{ position:absolute; left:2px; right:2px; bottom:2px; font-size:max(12px,calc(10.5px*var(--fs))); text-align:center; background:rgba(10,10,11,.7); border-radius:3px; white-space:nowrap; overflow:hidden; text-overflow:ellipsis; line-height:1.25; padding:1px 2px; }
+/* Dressing room (src/wardrobeui.ts, docs/DRESSING_ROOM.md) */
+.drwrap{ display:flex; gap:10px; align-items:flex-start; min-width:0; }
+.drstage{ flex:0 0 300px; display:flex; flex-direction:column; gap:5px; align-items:stretch; min-width:0; }
+.drstage #wdprev{ width:100%; height:auto; aspect-ratio:300/360; border:1px solid #4a4c4a; border-radius:6px; background:#101418; cursor:grab; box-shadow:0 0 24px rgba(0,0,0,.6) inset; }
+.drstage #wdprev:active{ cursor:grabbing; } .drstage #wdprev:focus-visible{ outline:2px solid #9fd09a; }
+.drrot{ display:flex; justify-content:center; align-items:center; gap:8px; } .drrot .btn{ min-width:40px; font-size:16px; } .drdir{ min-width:2.4em; text-align:center; }
+.drdiffs{ display:flex; flex-wrap:wrap; gap:3px; min-height:22px; align-items:center; justify-content:center; }
+.drdiff{ padding:1px 5px; border:1px solid #6b7; border-radius:3px; font-size:max(var(--fmin),11px); white-space:nowrap; background:rgba(80,140,90,.18); } .drdiff.buy{ border-color:#d9b44a; background:rgba(217,180,74,.15); }
+.drbar{ display:flex; flex-wrap:wrap; gap:5px; justify-content:center; align-items:center; } .drbar .btn.buy{ background:#6a4e12; border-color:#d9b44a; color:#fff3cf; font-weight:700; } .drconf{ white-space:nowrap; overflow:hidden; text-overflow:ellipsis; max-width:100%; }
+.drright{ flex:1; min-width:0; } .drdet{ margin-top:4px; padding:5px; border:1px solid #444; background:rgba(0,0,0,.25); white-space:nowrap; overflow:hidden; text-overflow:ellipsis; } .drdet .cap{ display:inline-block; max-width:14em; vertical-align:bottom; white-space:nowrap; overflow:hidden; text-overflow:ellipsis; }
+.drout{ display:flex; gap:4px; align-items:center; margin-top:5px; flex-wrap:wrap; } .drout .btn.mini{ padding:2px 7px; } .drout .btn.empty{ opacity:.5; }
+.wdgrid .tile.cos{ position:relative; } .wdgrid .tile.cos.own{ box-shadow:inset 0 0 0 1px rgba(255,255,255,.08); } .wdgrid .tile.cos.tried{ outline:2px solid var(--rc,#fff); outline-offset:-3px; }
+.wdgrid .tile.r-purple,.wdgrid .tile.r-orange{ box-shadow:0 0 6px var(--rc) inset; }
+.drb{ position:absolute; top:1px; left:2px; font-style:normal; font-size:9px; font-weight:700; padding:0 3px; border-radius:2px; line-height:13px; pointer-events:none; }
+.drb.own{ color:#9fd09a; } .drb.new{ background:#2f8f4e; color:#fff; } .drb.feat{ background:#d9b44a; color:#201600; } .drb.ltd{ background:#b13a3a; color:#fff; }
+.setic{ display:flex; flex-wrap:wrap; justify-content:center; gap:2px; } .setic .cosw{ width:38%; }
+@media (max-width:760px){ .drstage{ flex:0 0 200px; } }
+@media (max-height:500px){ .drstage{ flex:0 0 180px; } .drstage #wdprev{ max-height:150px; aspect-ratio:auto; } .wdgrid{ max-height:34vh; } .drrot .btn{ min-width:34px; } }

diff --git a/src/storeui.ts b/src/storeui.ts
@@ -6,7 +6,7 @@ import { CATALOG, LOCKER_SLOTS_PER_TIER, LOCKER_TIER_CENTS, BANK_TIER_CENTS, Sku
 import { exportJson, fmtUsd, funnel, track } from './analytics';
 import { lockerCapOf } from './bank';
 import { bankOf, bankCapacity } from './bank';
-import { WD } from './wardrobeui';
+import { previewFromStore } from './wardrobeui';
 type UIx = any;
 const esc = (s: string) => String(s).replace(/[&<>"]/g, c => ({ '&': '&amp;', '<': '&lt;', '>': '&gt;', '"': '&quot;' }[c]!));
 export type StTab = 'skins' | 'bundles' | 'storage';
@@ -59,7 +59,7 @@ export function storeClick(ui: UIx, el: HTMLElement, a: string): boolean {
     case 'st-dismiss': dismissUpsell(); ui.render(); return true;
     case 'st-tab': if (ST.phase === 'processing') return true; ST.tab = (el.dataset.tab as StTab) || 'skins'; ST.sel = ''; ST.phase = 'idle'; ST.msg = ''; break;
     case 'st-sel': if (ST.phase === 'processing') return true; if (ST.phase === 'confirm' && ST.orderId) cancelOrder(ST.orderId); ST.phase = 'idle'; ST.msg = ''; view(el.dataset.id!); break;
-    case 'st-preview': { const k = SKU_BY_ID[el.dataset.id!]; if (!k?.items) return true; WD.sel = k.items[0]; WD.msg = ''; ui.open('wardrobe'); return true; }
+    case 'st-preview': { const k = SKU_BY_ID[el.dataset.id!]; if (!k?.items) return true; previewFromStore(ui, k.items[0]); return true; }
     case 'st-buy': { const r = startPurchase(s, el.dataset.id!); if (r.ok) { ST.orderId = r.order.orderId; ST.phase = 'confirm'; ST.msg = ''; } else ST.msg = r.why; break; }
     case 'st-confirm': {
       if (ST.phase !== 'confirm' || !ST.orderId) return true; const oid = ST.orderId; ST.phase = 'processing'; ST.msg = '';

diff --git a/src/content/appearance.ts b/src/content/appearance.ts
@@ -177,7 +177,7 @@ export const COS_ROLL_CHANCE={ ordinary:.004, elite:.05, boss:.35, bossSpecific:
 /** Credit value when a duplicate (or an all-owned rarity) rolls. */
 export const COS_DUPE_CREDITS:Record<Rarity,number>={ grey:10, green:40, blue:150, purple:600, orange:4000 };
 
-export interface CosState { owned:Record<string,number>; equipped:Partial<Record<CosSlot,string>>; seen?:Record<string,number> }
+export interface CosState { owned:Record<string,number>; equipped:Partial<Record<CosSlot,string>>; seen?:Record<string,number>; outfits?:({ n:string; eq:Partial<Record<CosSlot,string>> }|null)[] }
 export const newCos=():CosState=>({ owned:{}, equipped:{}, seen:{} });
 export function cosOf(s:{cosmetics?:CosState}):CosState{ if(!s.cosmetics) s.cosmetics=newCos(); const c=s.cosmetics; c.owned=c.owned||{}; c.equipped=c.equipped||{}; c.seen=c.seen||{}; return c; }
 export const ownsCos=(s:{cosmetics?:CosState},id:string)=>!!cosOf(s).owned[id];

diff --git a/src/analytics.ts b/src/analytics.ts
@@ -1,7 +1,8 @@
 // Analytics event layer (store funnel). Local ring buffer + pluggable sinks. No network by default.
 // Wire a real backend by adding a sink: addSink(httpSink('https://example/ingest')). See docs/STORE_SIM.md.
 export type AEventName = 'store_open' | 'sku_view' | 'purchase_start' | 'purchase_confirm' | 'purchase_success' | 'purchase_fail' | 'purchase_cancel'
-  | 'entitlement_granted' | 'storage_full_prompt' | 'wardrobe_locked_item_click' | 'purchase_duplicate_receipt';
+  | 'entitlement_granted' | 'storage_full_prompt' | 'wardrobe_locked_item_click' | 'purchase_duplicate_receipt'
+  | 'dr_preview' | 'dr_rotate' | 'dr_buy_intent' | 'dr_apply' | 'dr_revert' | 'dr_outfit_save' | 'dr_outfit_load';
 export interface AEvent { n: number; t: number; name: AEventName; sku?: string; data?: Record<string, any>; }
 export interface AnalyticsSink { name: string; write(e: AEvent): void; }
 export const RING_MAX = 500;
